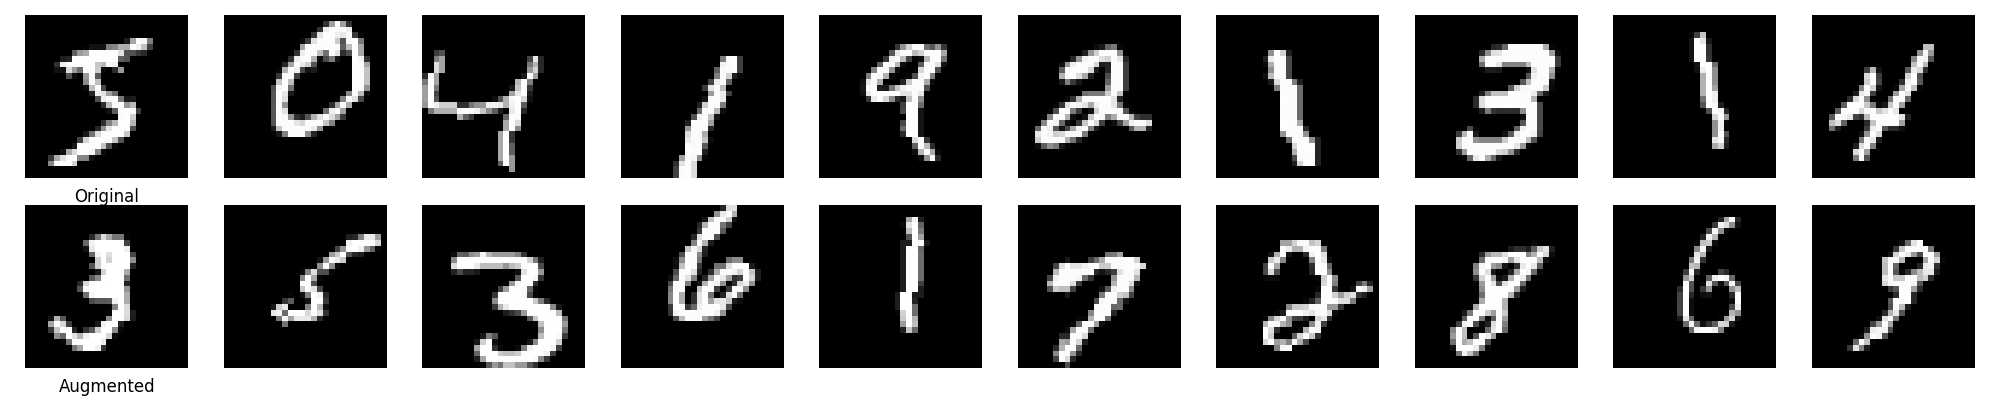
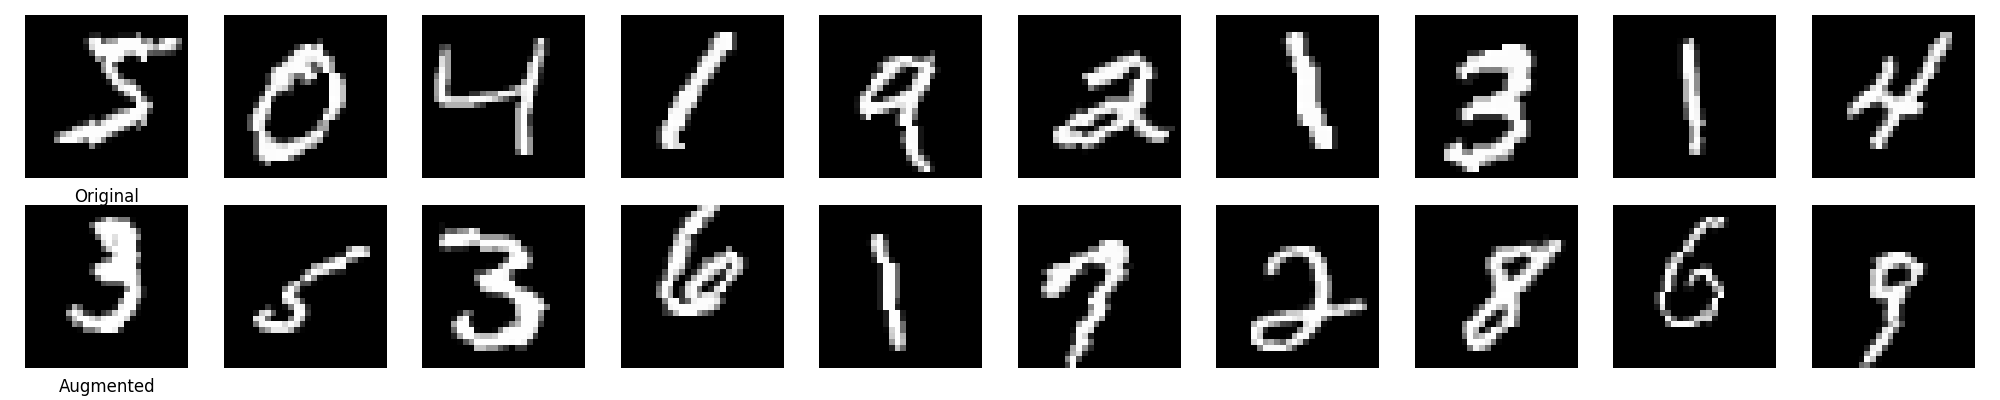
3 more augmentation tests passed

diff --git a/test_model.py b/test_model.py
@@ -66,6 +66,60 @@ def test_model_architecture():
     total_params = sum(p.numel() for p in model.parameters())
     assert total_params < 25000, f"Model has {total_params} parameters, should be less than 25000"
 
+def test_brightness_adjustment():
+    """Test if brightness adjustment works"""
+    # Create a gray test image
+    test_image = np.ones((100, 100, 3), dtype=np.uint8) * 127
+    
+    # Apply augmentation
+    augmented = transform(image=test_image)['image']
+    
+    # Check if brightness changed
+    original_mean = np.mean(test_image)
+    augmented_mean = np.mean(augmented)
+    
+    # Verify brightness changed but within reasonable limits
+    assert abs(original_mean - augmented_mean) > 1, "Brightness should change"
+    assert abs(original_mean - augmented_mean) < 51, "Brightness change should be within limits"
+
+def test_random_crop():
+    """Test if random crop works correctly"""
+    # Create test image with specific size
+    test_image = np.ones((100, 100, 3), dtype=np.uint8) * 127
+    
+    # Apply augmentation
+    augmented = transform(image=test_image)['image']
+    
+    # Check if dimensions are correct
+    assert augmented.shape == (80, 80, 3), "Crop dimensions incorrect"
+    assert augmented.dtype == np.uint8, "Image type should remain uint8"
+
+def test_vertical_flip():
+    """Test if vertical flip works correctly"""
+    # Create a test image with a 'T' shape
+    test_image = np.zeros((100, 100, 3), dtype=np.uint8)
+    # Create a 'T' shape
+    test_image[20:30, 40:60, :] = 255  # Horizontal line
+    test_image[30:60, 45:55, :] = 255  # Vertical line
+    
+    # Update transform to include vertical flip
+    transform_with_vflip = A.Compose([
+        A.VerticalFlip(p=1.0),  # Always flip vertically
+        A.RandomBrightnessContrast(brightness_limit=0.2, contrast_limit=0.2, p=1.0),
+        A.RandomCrop(width=80, height=80, p=1.0),
+    ])
+    
+    # Apply augmentation
+    augmented = transform_with_vflip(image=test_image)['image']
+    
+    # Check if the 'T' is flipped (should be upside down)
+    # The horizontal line should now be near the bottom
+    has_line_bottom = np.any(augmented[-30:-20, 40:60, 0] > 200)
+    has_line_top = np.any(augmented[20:30, 40:60, 0] > 200)
+    
+    assert has_line_bottom, "Horizontal line should be near the bottom after vertical flip"
+    assert not has_line_top, "Horizontal line should not be near the top after vertical flip"
+
 def test_model_accuracy():
     print("\n" + "="*70)
     print("RUNNING MODEL ACCURACY TEST")
@@ -112,143 +166,6 @@ def test_model_accuracy():
     print("="*70 + "\n")
     
     assert accuracy > 80, f"Model accuracy is {accuracy:.2f}%, should be > 80%"
-
-def test_rotation_angle():
-    """Test if rotation stays within specified limits"""
-    # Create a simple test image with a horizontal line
-    test_image = np.zeros((100, 100, 3), dtype=np.uint8)
-    test_image[45:55, :, :] = 255  # Thicker horizontal line for better detection
-    
-    # Apply augmentation multiple times to ensure consistent behavior
-    max_height_diff = 0
-    num_tests = 10
-    
-    for _ in range(num_tests):
-        augmented = transform(image=test_image)['image']
-        # Find white pixels
-        white_pixels = np.where(augmented[:, :, 0] == 255)[0]
-        if len(white_pixels) > 0:
-            height_diff = max(white_pixels) - min(white_pixels)
-            max_height_diff = max(max_height_diff, height_diff)
-    
-    # Calculate maximum expected height difference for 30-degree rotation
-    # Using trigonometry: opposite = adjacent * tan(theta)
-    max_expected_diff = int(100 * np.tan(np.radians(31)))  # 100 is image width
-    
-    assert max_height_diff < max_expected_diff, \
-        f"Rotation angle too large. Got {np.degrees(np.arctan(max_height_diff/100)):.1f}°, expected ≤30°"
-
-def test_image_shape_preservation():
-    """Test if the augmented image maintains the same shape as input"""
-    test_image = np.zeros((64, 64, 3), dtype=np.uint8)
-    augmented = transform(image=test_image)['image']
-    
-    assert test_image.shape == augmented.shape
-    assert augmented.dtype == np.uint8
-
-def test_rotation_boundaries():
-    """Test if rotation respects both positive and negative angle limits"""
-    # Create a test image with a cross pattern
-    test_image = np.zeros((100, 100, 3), dtype=np.uint8)
-    test_image[45:55, :, :] = 255  # Horizontal line
-    test_image[:, 45:55, :] = 255  # Vertical line
-    
-    # Collect multiple augmentations to check rotation distribution
-    rotations = []
-    num_samples = 50
-    
-    for _ in range(num_samples):
-        augmented = transform(image=test_image)['image']
-        
-        # Find the angle of rotation by analyzing the horizontal line
-        y_coords, _ = np.where(augmented[:, :, 0] == 255)
-        if len(y_coords) > 0:
-            min_y, max_y = np.min(y_coords), np.max(y_coords)
-            height_diff = max_y - min_y
-            # Approximate angle using arctan
-            if height_diff > 0:
-                angle = np.abs(np.degrees(np.arctan(height_diff / 100)))
-                rotations.append(angle)
-    
-    # Check if all rotations are within limits
-    max_rotation = max(rotations) if rotations else 0
-    assert max_rotation <= 31, f"Maximum rotation {max_rotation:.1f}° exceeds limit of 30°"
-    
-    # Check if we have a good distribution of angles
-    assert len(rotations) > 0, "No valid rotations detected"
-    mean_rotation = np.mean(rotations)
-    assert mean_rotation > 5, f"Mean rotation {mean_rotation:.1f}° seems too low"
-
-def test_horizontal_flip():
-    """Test if horizontal flipping works correctly"""
-    # Create a test image with an asymmetric pattern
-    test_image = np.zeros((100, 100, 3), dtype=np.uint8)
-    # Create an 'L' shape on the left side
-    test_image[30:70, 20:30, :] = 255  # Vertical line
-    test_image[60:70, 20:50, :] = 255  # Horizontal line
-    
-    # Apply augmentation
-    augmented = transform(image=test_image)['image']
-    
-    # The 'L' shape should now be on the right side
-    # Check vertical line position
-    vertical_line_original = test_image[40, 20:30, 0]  # Sample from original vertical line
-    vertical_line_flipped = augmented[40, -30:-20, 0]  # Sample from expected flipped position
-    
-    # Check horizontal line position
-    horiz_line_original = test_image[60:70, 20:50, 0]  # Sample from original horizontal line
-    horiz_line_flipped = augmented[60:70, -50:-20, 0]  # Sample from expected flipped position
-    
-    # Verify the flip
-    assert np.array_equal(vertical_line_original, vertical_line_flipped), "Vertical line not correctly flipped"
-    assert np.array_equal(horiz_line_original, horiz_line_flipped), "Horizontal line not correctly flipped"
-    
-    # Verify that the pattern is not in the original position
-    assert not np.array_equal(test_image[:, :20, :], augmented[:, :20, :]), "Image should be flipped"
-
-def test_brightness_adjustment():
-    """Test if brightness adjustment works"""
-    # Create a gray test image
-    test_image = np.ones((100, 100, 3), dtype=np.uint8) * 127
-    
-    # Apply augmentation
-    augmented = transform(image=test_image)['image']
-    
-    # Check if brightness changed
-    original_mean = np.mean(test_image)
-    augmented_mean = np.mean(augmented)
-    
-    # Verify brightness changed but within reasonable limits
-    assert abs(original_mean - augmented_mean) > 1, "Brightness should change"
-    assert abs(original_mean - augmented_mean) < 51, "Brightness change should be within limits"
-
-def test_gaussian_noise():
-    """Test if Gaussian noise is added"""
-    # Create a uniform test image
-    test_image = np.ones((100, 100, 3), dtype=np.uint8) * 127
-    
-    # Apply augmentation
-    augmented = transform(image=test_image)['image']
-    
-    # Calculate standard deviation of the difference
-    diff = augmented.astype(float) - test_image.astype(float)
-    std_dev = np.std(diff)
-    
-    # Verify noise was added
-    assert std_dev > 0, "No noise detected"
-    assert std_dev < 50, "Noise level too high"
-
-def test_random_crop():
-    """Test if random crop works correctly"""
-    # Create test image with specific size
-    test_image = np.ones((100, 100, 3), dtype=np.uint8) * 127
-    
-    # Apply augmentation
-    augmented = transform(image=test_image)['image']
-    
-    # Check if dimensions are correct
-    assert augmented.shape == (80, 80, 3), "Crop dimensions incorrect"
-    assert augmented.dtype == np.uint8, "Image type should remain uint8"
 
 if __name__ == "__main__":
     pytest.main(["-v", "-s", __file__]) 

diff --git a/train.py b/train.py
@@ -17,8 +17,8 @@ ssl._create_default_https_context = ssl._create_unverified_context
 
 transform = A.Compose([
     A.Rotate(limit=30, p=1.0),
+    A.VerticalFlip(p=1.0),
     A.RandomBrightnessContrast(brightness_limit=0.2, contrast_limit=0.2, p=1.0),
-    A.GaussNoise(var_limit=(10.0, 50.0), p=1.0),
     A.RandomCrop(width=80, height=80, p=1.0),
 ])
 
